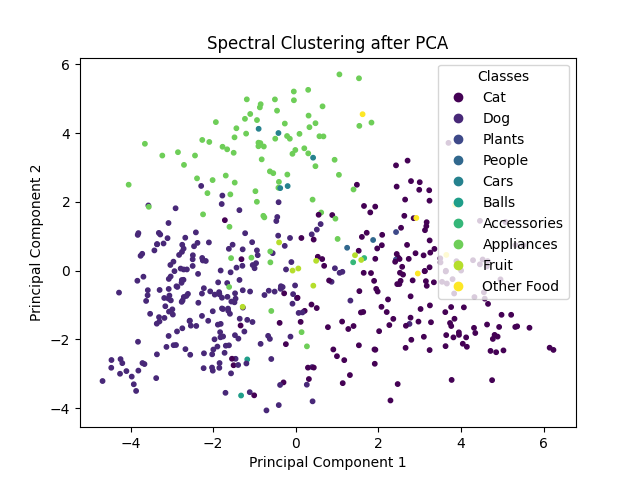
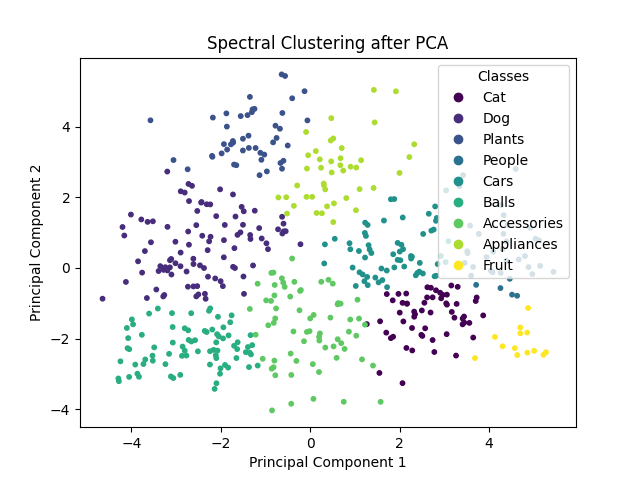
changed PCA parameter

diff --git a/diff_entities.py b/diff_entities.py
@@ -45,9 +45,9 @@ def main(images_dir, labels_csv, dataset_name, classes, preprocess_image_data, n
   
 
 def pca(image_entity_objects):
-    pca_total = PCA(n_components=10).fit_transform(image_entity_objects[0].embeddings)
+    pca_total = PCA(n_components=2).fit_transform(image_entity_objects[0].embeddings)
     for i in range(1, len(image_entity_objects)):
-        pca_total = np.concatenate((pca_total, PCA(n_components=10).fit_transform(image_entity_objects[i].embeddings)), axis = 0)
+        pca_total = np.concatenate((pca_total, PCA(n_components=2).fit_transform(image_entity_objects[i].embeddings)), axis = 0)
     return pca_total
 
 
@@ -75,10 +75,10 @@ def evaluate(image_entity_objects, predicted_clusters):
         ground_truth += entity.count * [count]
         count = count + 1
 
-    # TODO: why are the clustering metrics so low for visually well formed clusters
-    print(fowlkes_mallows_score(ground_truth, predicted_clusters))
-    print(normalized_mutual_info_score(ground_truth, predicted_clusters))
-    print(homogeneity_score(ground_truth, predicted_clusters))
+    # TODO: why are the clustering metrics so low for visually well formed clusters?
+    print("Fowlkes Mallows: "  + str(fowlkes_mallows_score(ground_truth, predicted_clusters)))
+    print("NMI: "+  str(normalized_mutual_info_score(ground_truth, predicted_clusters)))
+    print("Homogeneity: " + str(homogeneity_score(ground_truth, predicted_clusters)))
 
 
 
